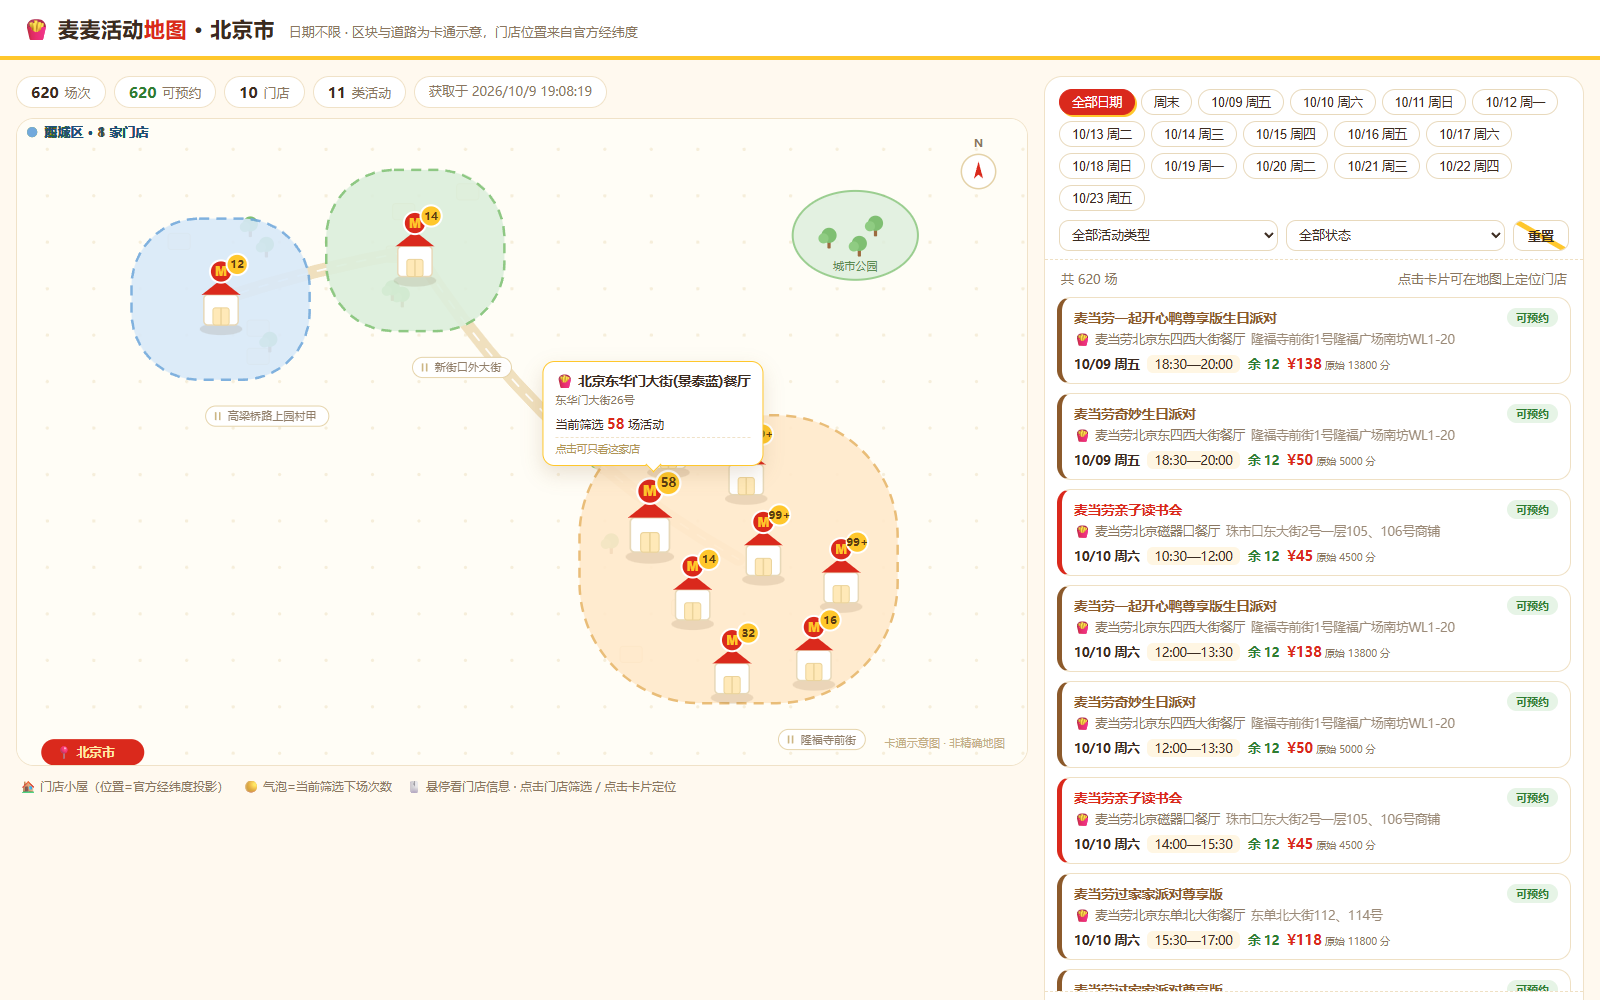
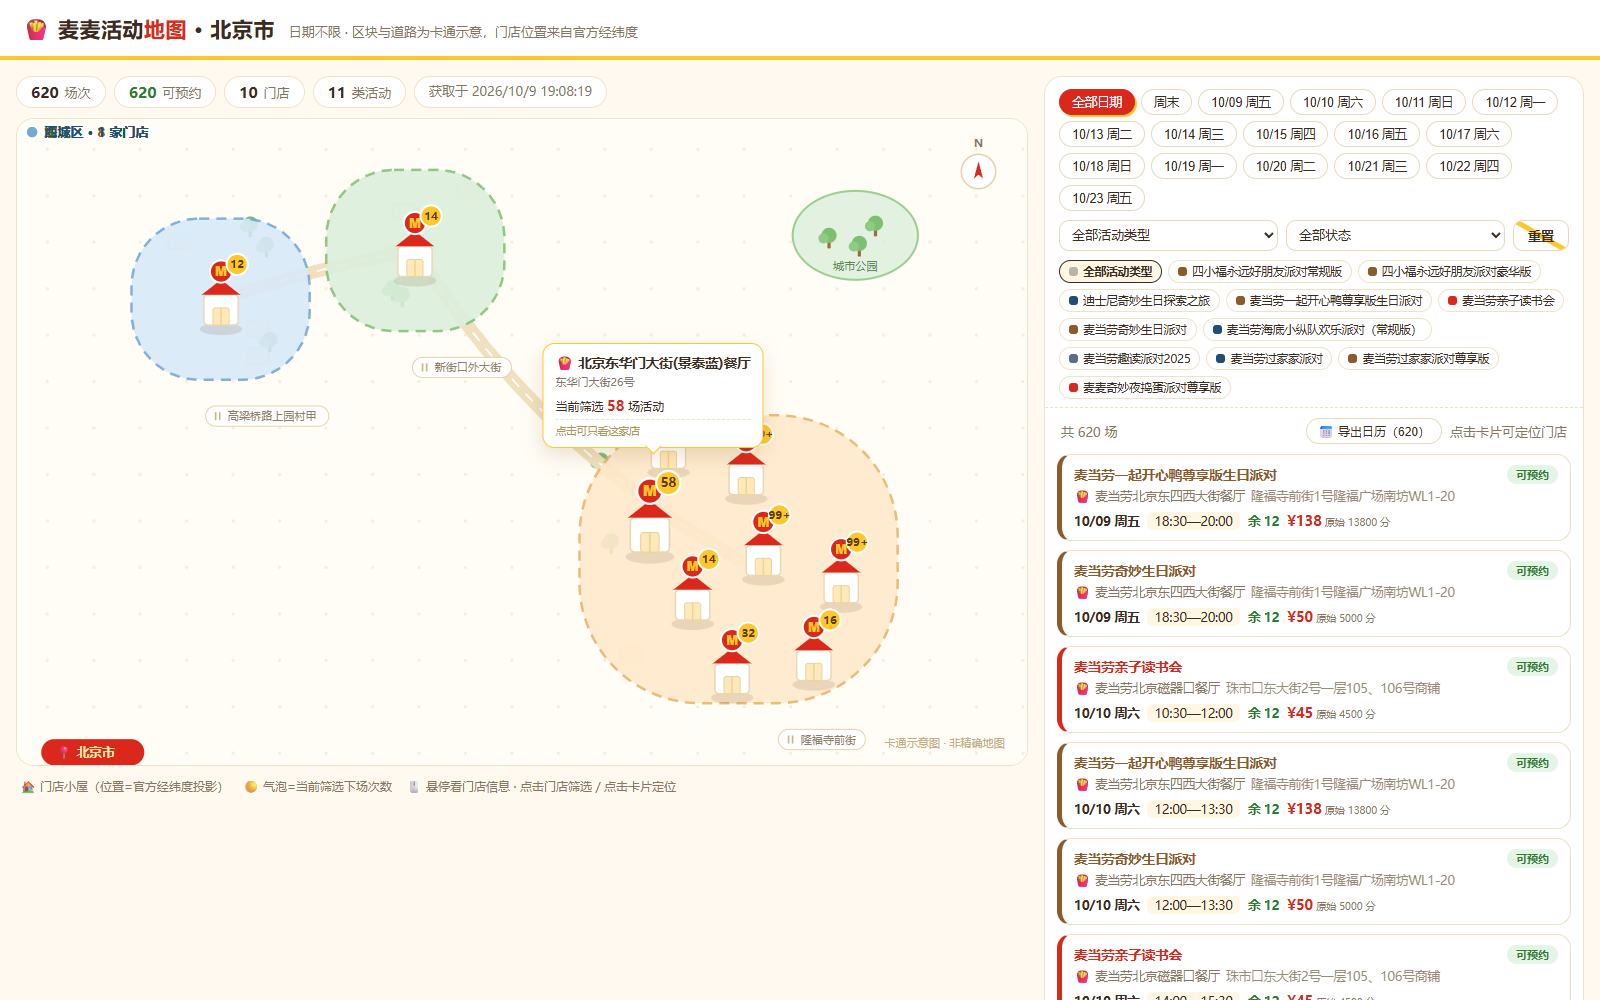
v0.3.3: 无障碍与移动端补齐——门店标记键盘可达(role/tabindex/aria)+focus 气泡、prefers-reduced-motion 关动画、活动类型色标筛选、导出 .ics 日历、720px 断点打磨；修复模板字符串吞反斜杠导致的 ICS 解析失效

diff --git a/README.md b/README.md
@@ -100,6 +100,9 @@
 
 **不画假位置、不虚报名额、不瞎标价格**——这是本项目的底线，详见下方「数据诚实红线」。
 
+顺手还能做：点活动类型的**色标**一键筛选、把当前筛选结果**导出成日历文件**（`.ics`，可直接导入手机日历；官方没给场次时间的会如实标成全天事件）；
+门店小屋支持**键盘操作**（Tab 聚焦、回车筛选），系统开启「减少动态效果」时会自动关掉动画。
+
 ---
 
 ## 🧑🤝🧑 谁需要它
